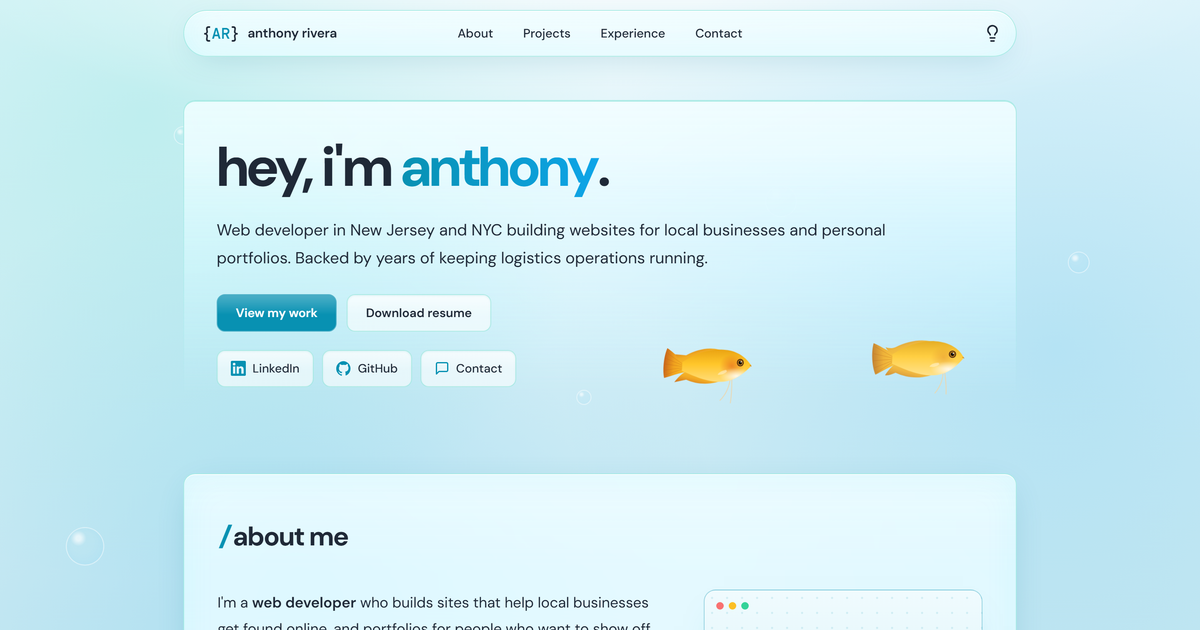
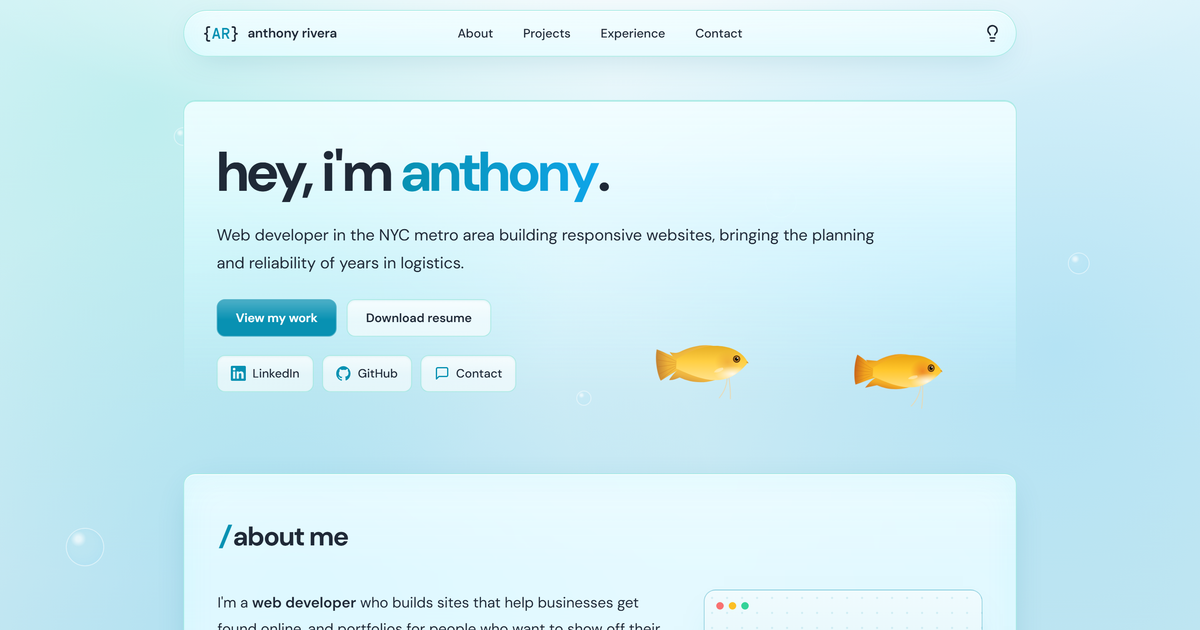
Simplify the hero and trim the About section
- Hero intro is now one line: web developer in the NYC metro area
  building responsive websites, bringing the planning and reliability
  of years in logistics. Hero spacing adjusted to match.
- Drop "local" across the site and the logistics sentences from About.
- Update the meta description, share image, project thumbnail and resume
  to match.

diff --git a/index.html b/index.html
@@ -4,7 +4,7 @@
   <meta charset="UTF-8" />
   <meta name="viewport" content="width=device-width, initial-scale=1.0" />
   <title>Anthony Daniel Rivera | Web Developer</title>
-  <meta name="description" content="Anthony Daniel Rivera is a web developer in New Jersey and NYC who builds fast, mobile-friendly websites for local businesses and personal portfolios." />
+  <meta name="description" content="Anthony Daniel Rivera is a web developer in the NYC metro area who builds fast, mobile-friendly websites for businesses and personal portfolios." />
   <link rel="canonical" href="https://anthonydanrivera.com/" />
 
   <link rel="icon" href="assets/favicon-32.png" sizes="32x32" type="image/png" />
@@ -16,11 +16,11 @@
   <meta property="og:type" content="website" />
   <meta property="og:url" content="https://anthonydanrivera.com/" />
   <meta property="og:title" content="Anthony Daniel Rivera | Web Developer" />
-  <meta property="og:description" content="Anthony Daniel Rivera is a web developer in New Jersey and NYC who builds fast, mobile-friendly websites for local businesses and personal portfolios." />
+  <meta property="og:description" content="Anthony Daniel Rivera is a web developer in the NYC metro area who builds fast, mobile-friendly websites for businesses and personal portfolios." />
   <meta property="og:image" content="https://anthonydanrivera.com/assets/og-image.png" />
   <meta property="og:image:width" content="1200" />
   <meta property="og:image:height" content="630" />
-  <meta property="og:image:alt" content="The homepage of anthonydanrivera.com: hey, i'm anthony. Web developer in New Jersey and NYC, with two honey gouramis swimming beside the links" />
+  <meta property="og:image:alt" content="The homepage of anthonydanrivera.com: hey, i'm anthony. Web developer in the NYC metro area, with two honey gouramis swimming beside the links" />
   <meta name="twitter:card" content="summary_large_image" />
 
   <!-- Helps search engines show who this site belongs to -->
@@ -90,8 +90,8 @@
         hey, i'm <span class="gradient-text">anthony</span>.<span class="cursor" aria-hidden="true"></span>
       </h1>
       <p class="hero__lead reveal">
-        Web developer in New Jersey and NYC building websites for local businesses
-        and personal portfolios. Backed by years of keeping logistics operations running.
+        Web developer in the NYC metro area building responsive websites,
+        bringing the planning and reliability of years in logistics.
       </p>
       <div class="hero__cta reveal">
         <a href="#projects" class="btn btn--ghost btn--primary">View my work</a>
@@ -121,7 +121,7 @@
       <div class="about">
         <div class="about__text reveal">
           <p>
-            I'm a <strong>web developer</strong> who builds sites that help local businesses get found online, and portfolios
+            I'm a <strong>web developer</strong> who builds sites that help businesses get found online, and portfolios
             for people who want to show off their work in a way that feels like them.
           </p>
           <p>What I work with:</p>
@@ -133,8 +133,7 @@
           <p>
             Alongside web development I'm an <strong>Assistant Operations Planner</strong> at Academy Bus, coordinating charter
             work across 10 Northeast terminals for events such as the FIFA World Cup, the US Open and the NYC
-            Marathon. Day to day I plan logistics, hit hard deadlines and adjust on the fly when things go sideways.
-            I bring that same mindset to client sites.
+            Marathon.
           </p>
           <p>
             Outside of work I love lifting heavy at the gym and getting humbled by Slay the Spire 2.
@@ -214,7 +213,7 @@
           <span class="timeline__date">Oct 2026 — Present · Remote</span>
           <h3>Freelance Web Developer · <span class="accent">Self-employed</span></h3>
           <ul class="timeline__points">
-            <li>Built the website for <a class="accent" href="https://erosprocleaning.com/" target="_blank" rel="noopener">Eros Pro Cleaning</a>, a local cleaning business.</li>
+            <li>Built the website for <a class="accent" href="https://erosprocleaning.com/" target="_blank" rel="noopener">Eros Pro Cleaning</a>, a New Jersey cleaning business.</li>
             <li>Worked with the owner from first draft to launch, revising the site around their feedback.</li>
             <li>Use Claude Code to build and debug client sites faster.</li>
           </ul>

diff --git a/css/style.css b/css/style.css
@@ -216,7 +216,7 @@ img { max-width: 100%; display: block; }
   min-height: calc(100vh - 340px);
   min-height: calc(100svh - 340px);
   margin: 120px auto 0;
-  padding: 28px 40px 64px;
+  padding: 40px 40px 64px;
   display: flex; flex-direction: column; justify-content: center;
   border-radius: var(--radius);
   isolation: isolate;
@@ -561,7 +561,7 @@ img { max-width: 100%; display: block; }
 /* ============ RESPONSIVE ============ */
 /* Short laptop screens: a slightly tighter hero so the About heading still peeks in on the first screen */
 @media (min-width: 761px) and (max-height: 760px) {
-  .hero { padding-top: 12px; padding-bottom: 40px; }
+  .hero { padding-top: 24px; padding-bottom: 40px; }
   .hero__cta { margin: 26px 0 22px; }
 }
 /* Portrait tablets: tighter link spacing so the centered links don't crowd the name in the top bar */
